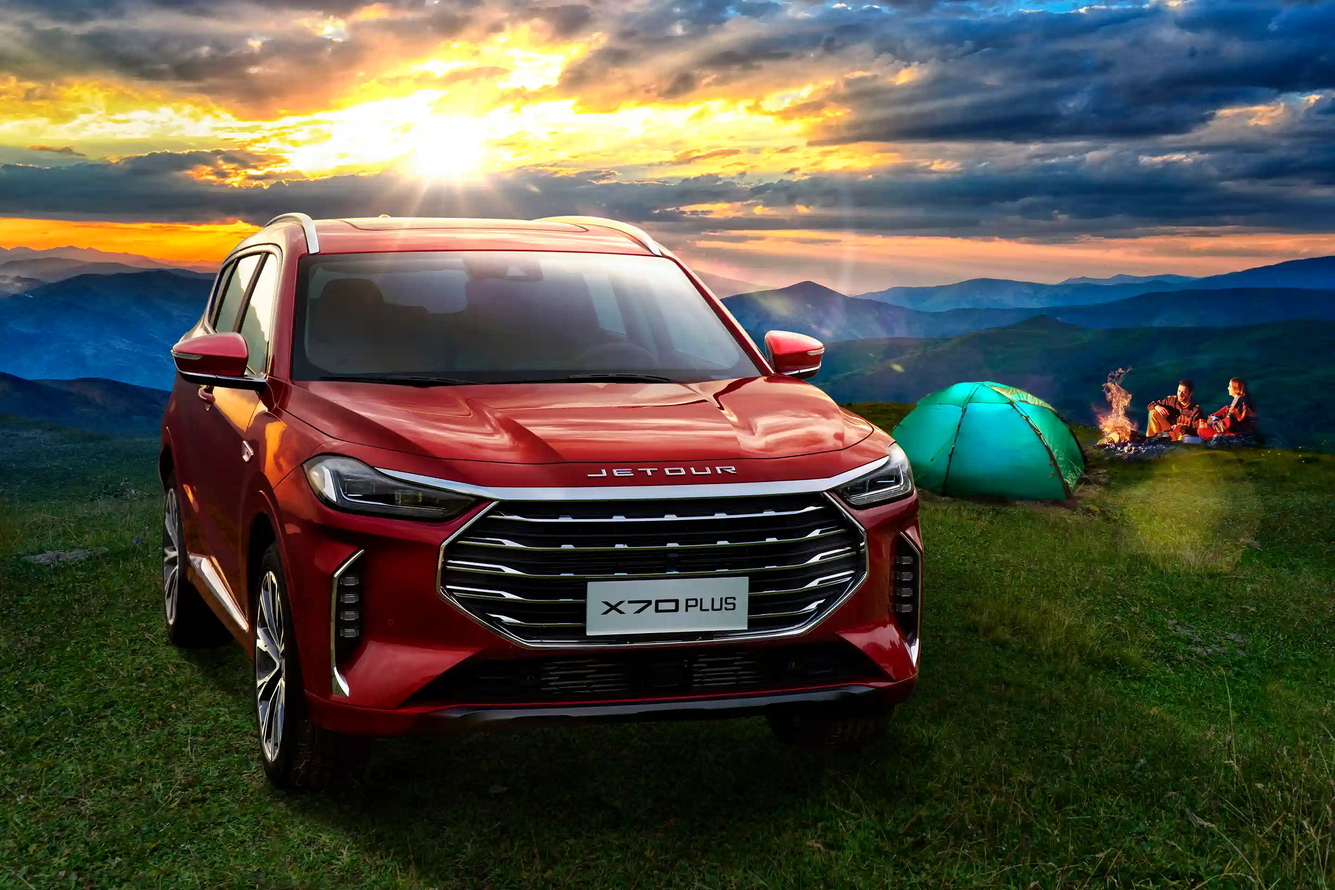
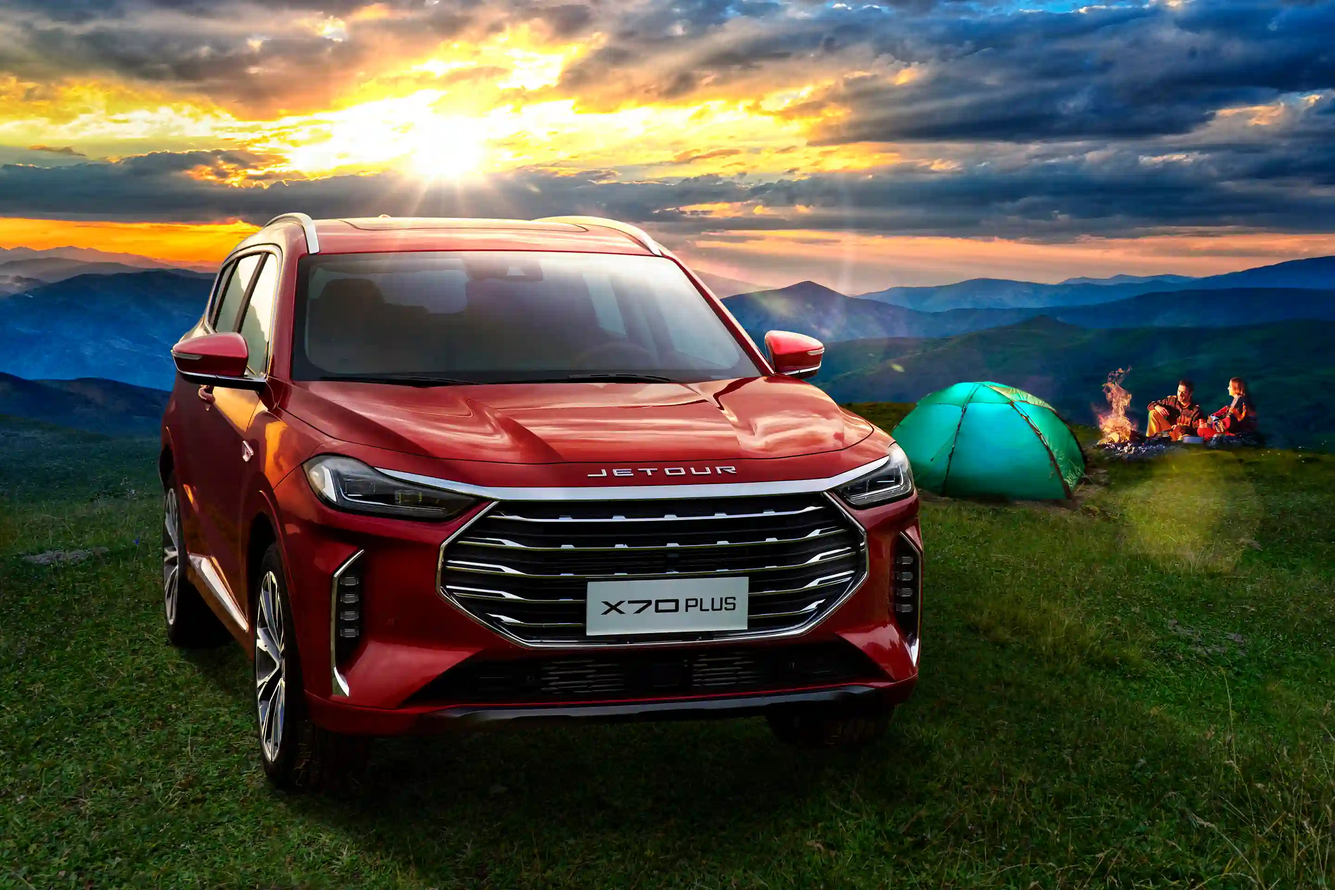
feat: optimize x70 plus page images

Changed region(s): [[0.8125, 0.4375, 0.9375, 0.5], [0.75, 0.4375, 0.7812, 0.4688], [0.5938, 0.6875, 0.625, 0.7188]]

diff --git a/src/app/(modules)/landing/data/vehicles-constant.ts b/src/app/(modules)/landing/data/vehicles-constant.ts
@@ -24,8 +24,8 @@ import x70PlusWhite from '@root/public/img/X70 Plus/X70 Plus 45 degree White.web
 import x70PlusBlack from '@root/public/img/X70 Plus/45 degree front left angle Black.webp';
 import X70PlusSingleImage from '@root/public/img/X70 Plus/Estabilidad y Seguridad.jpg';
 import x70FeatureImage1 from '@root/public/img/X70 Plus/featuresSection1.webp';
-import x70FeatureImage2 from '@root/public/img/X70 Plus/Techo Corredizo.jpg';
-import x70FeatureImage3 from '@root/public/img/X70 Plus/Distancia Ejes.jpg';
+import x70FeatureImage2 from '@root/public/img/X70 Plus/Techo Corredizo.webp';
+import x70FeatureImage3 from '@root/public/img/X70 Plus/Distancia Ejes.webp';
 import rubikKey from '@root/public/img/DASHING/Rubik_s cube key.webp';
 import headAcoustics from '@root/public/img/DASHING/Head acoustics(optional).webp';
 import wirelessCharging from '@root/public/img/DASHING/40 watts of wireless charging.webp';
@@ -56,12 +56,12 @@ import x70Image from '@root/public/img/X70 Plus/X70 Jetour.webp';
 import x70Logo from '@root/public/img/X70 Plus/Logo.webp';
 import { CarThemeKey } from './theme-definitions';
 
-import x70firstSplitImage from '@root/public/img/X70 Plus/First split image.png';
-import x70secondSplitImage from '@root/public/img/X70 Plus/Second split image.png';
-import x70gallery1 from '@root/public/img/X70 Plus/Foto 01.jpg';
-import x70gallery2 from '@root/public/img/X70 Plus/Foto 02.jpg';
-import x70gallery3 from '@root/public/img/X70 Plus/Foto 03.jpg';
-import x70gallery4 from '@root/public/img/X70 Plus/Foto 04.jpg';
+import x70firstSplitImage from '@root/public/img/X70 Plus/First split image.webp';
+import x70secondSplitImage from '@root/public/img/X70 Plus/Second split image.webp';
+import x70gallery1 from '@root/public/img/X70 Plus/Foto 01.webp';
+import x70gallery2 from '@root/public/img/X70 Plus/Foto 02.webp';
+import x70gallery3 from '@root/public/img/X70 Plus/Foto 03.webp';
+import x70gallery4 from '@root/public/img/X70 Plus/Foto 04.webp';
 
 import x50CarSelectorImage from '@root/public/img/X50/x50-360BAI_00005.webp';
 
